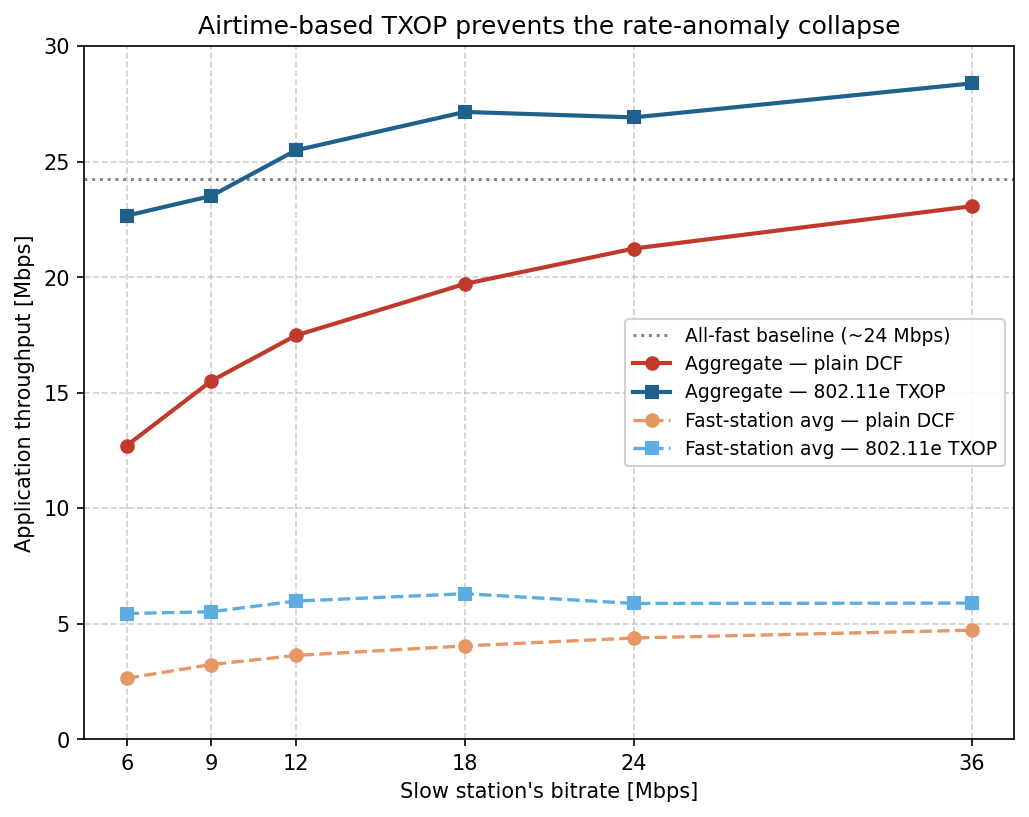
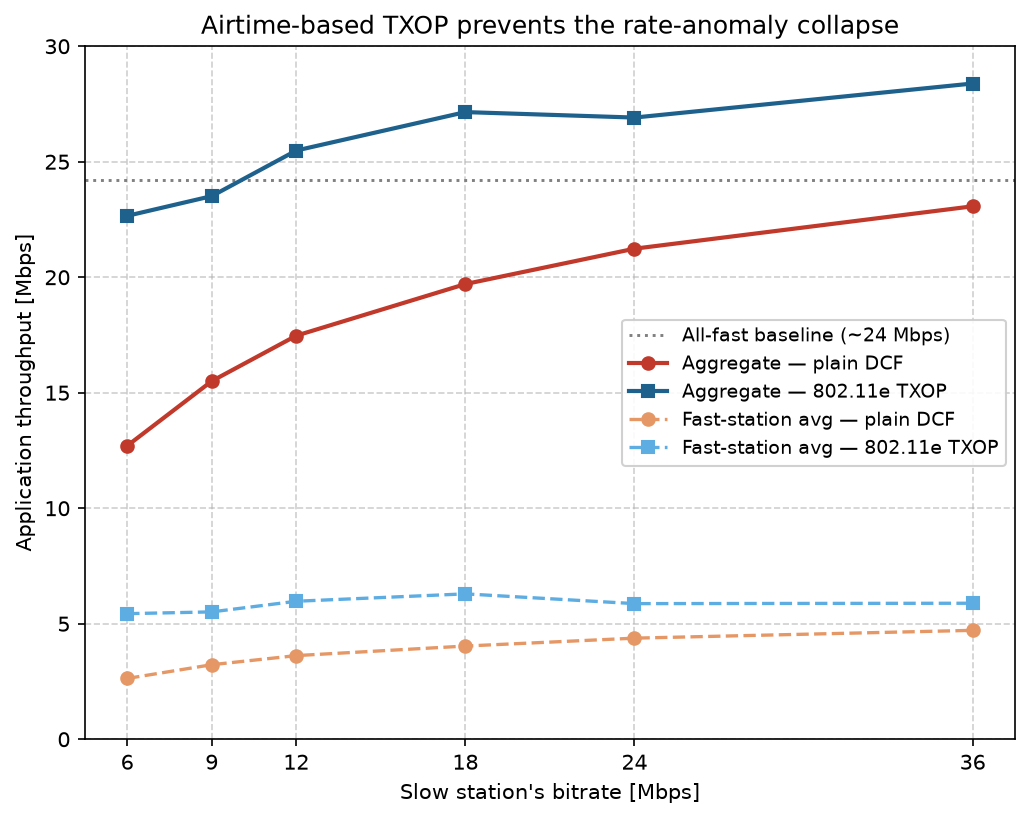
showcases/wireless/rateanomaly: render the two matplotlib charts on a transparent background
dl-chart.py and txop-chart.py saved with an opaque white figure background, unlike the three
.anf charts (which inherit savefig.transparent from the template). Pass transparent=True so all
five data charts match. Data unchanged (downlink 2.75 anomaly / 0.68-5.30 fair, regenerated
fresh; uplink sweep reused). network.png (canvas shot) and frame-airtime-sequence.png (IDE
sequence chart) are not matplotlib charts and keep their backgrounds.

diff --git a/showcases/wireless/rateanomaly/dl-chart.py b/showcases/wireless/rateanomaly/dl-chart.py
@@ -42,6 +42,6 @@ ax.grid(True, axis="y", linestyle="--", alpha=0.6)
 ax.set_axisbelow(True)
 ax.set_ylim(0, 6.5)
 ax.legend(loc="upper left", framealpha=0.9, fontsize=9)
-plt.savefig("doc/media/downlink-throughput.png", dpi=150, bbox_inches="tight")
+plt.savefig("doc/media/downlink-throughput.png", dpi=150, bbox_inches="tight", transparent=True)
 print("saved doc/media/downlink-throughput.png  anomaly=%s  fair=%s" % (
     [round(v, 2) for v in anomaly], [round(v, 2) for v in fair]))

diff --git a/showcases/wireless/rateanomaly/txop-chart.py b/showcases/wireless/rateanomaly/txop-chart.py
@@ -51,5 +51,5 @@ plt.ylim(0, 30)
 plt.grid(True, linestyle="--", alpha=0.6)
 plt.gca().set_axisbelow(True)
 plt.legend(loc="center right", framealpha=0.9, fontsize=9)
-plt.savefig("doc/media/txop-throughput-vs-rate.png", dpi=150, bbox_inches="tight")
+plt.savefig("doc/media/txop-throughput-vs-rate.png", dpi=150, bbox_inches="tight", transparent=True)
 print("saved doc/media/txop-throughput-vs-rate.png")
